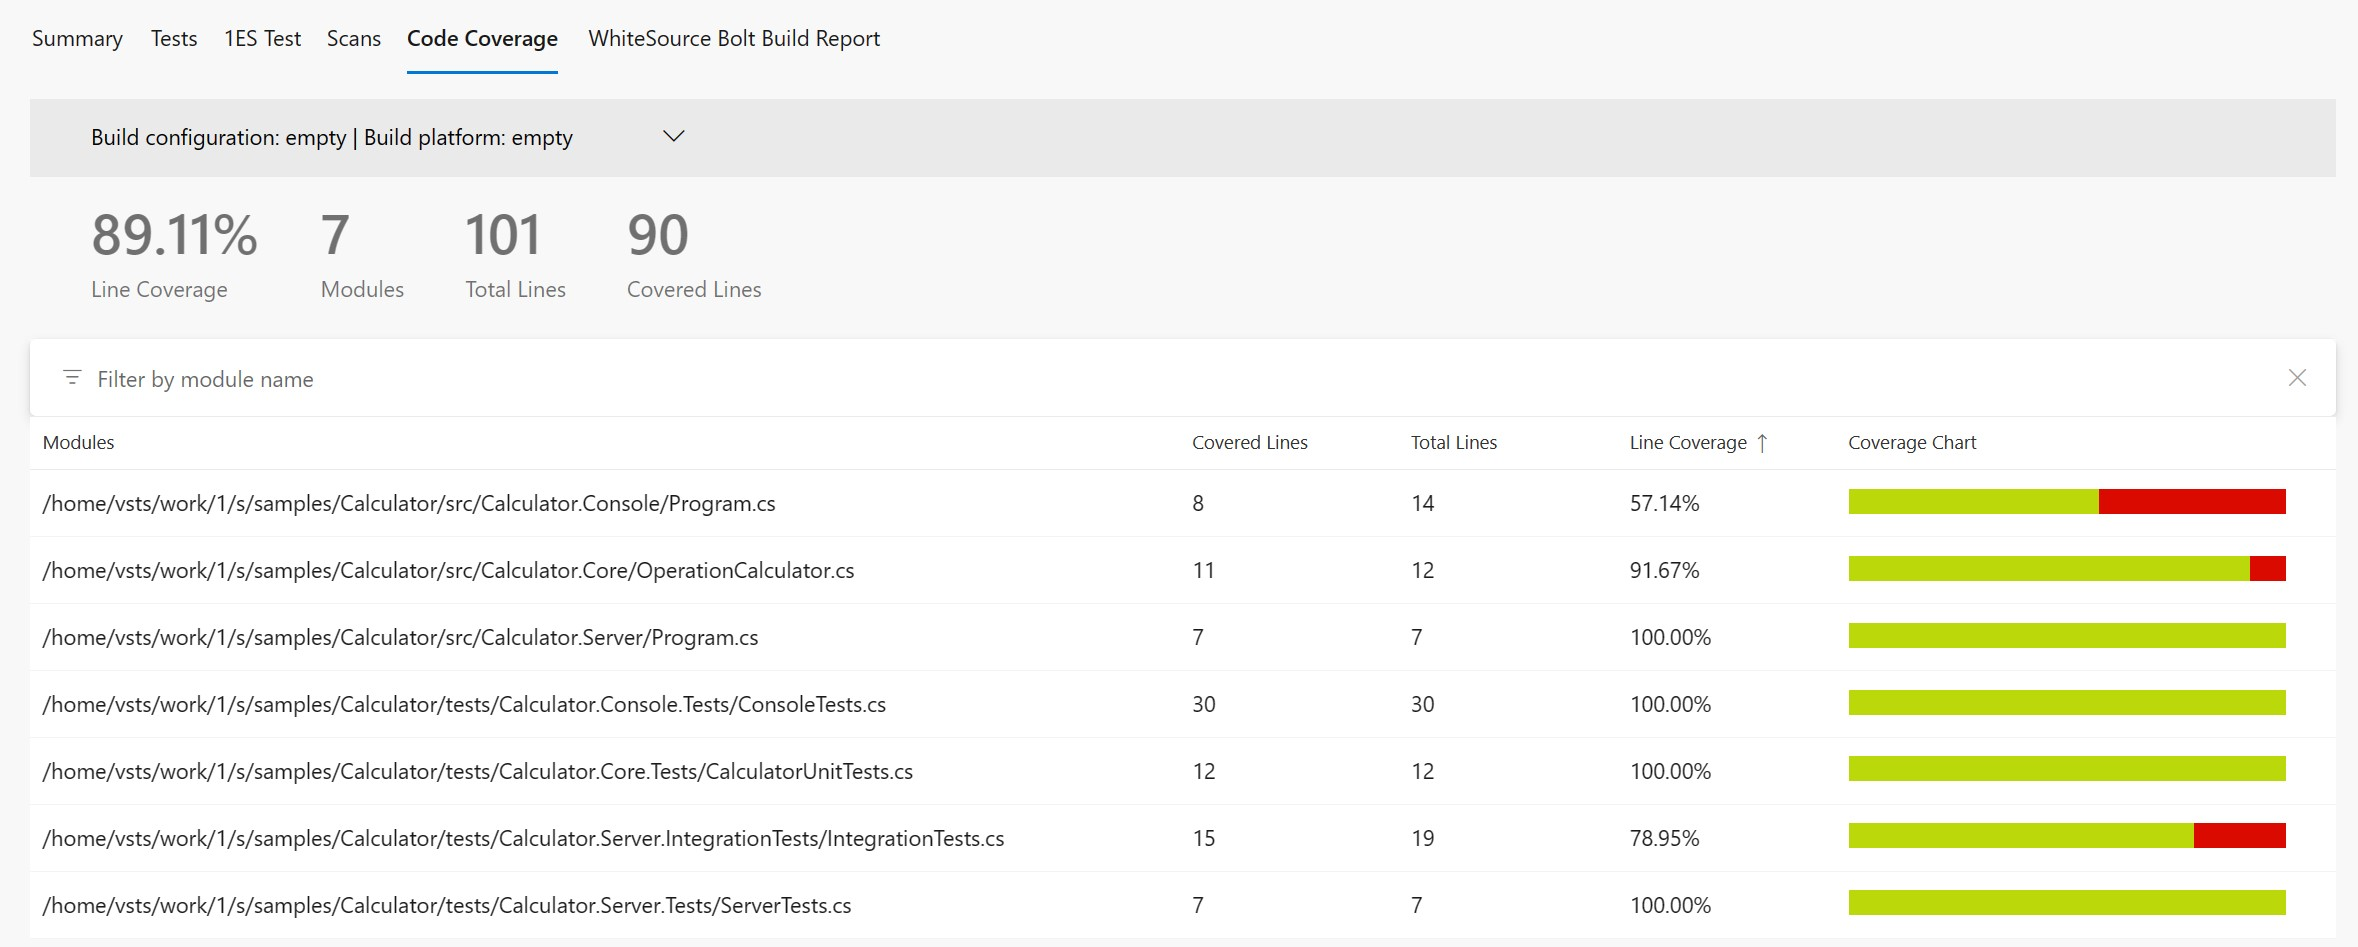
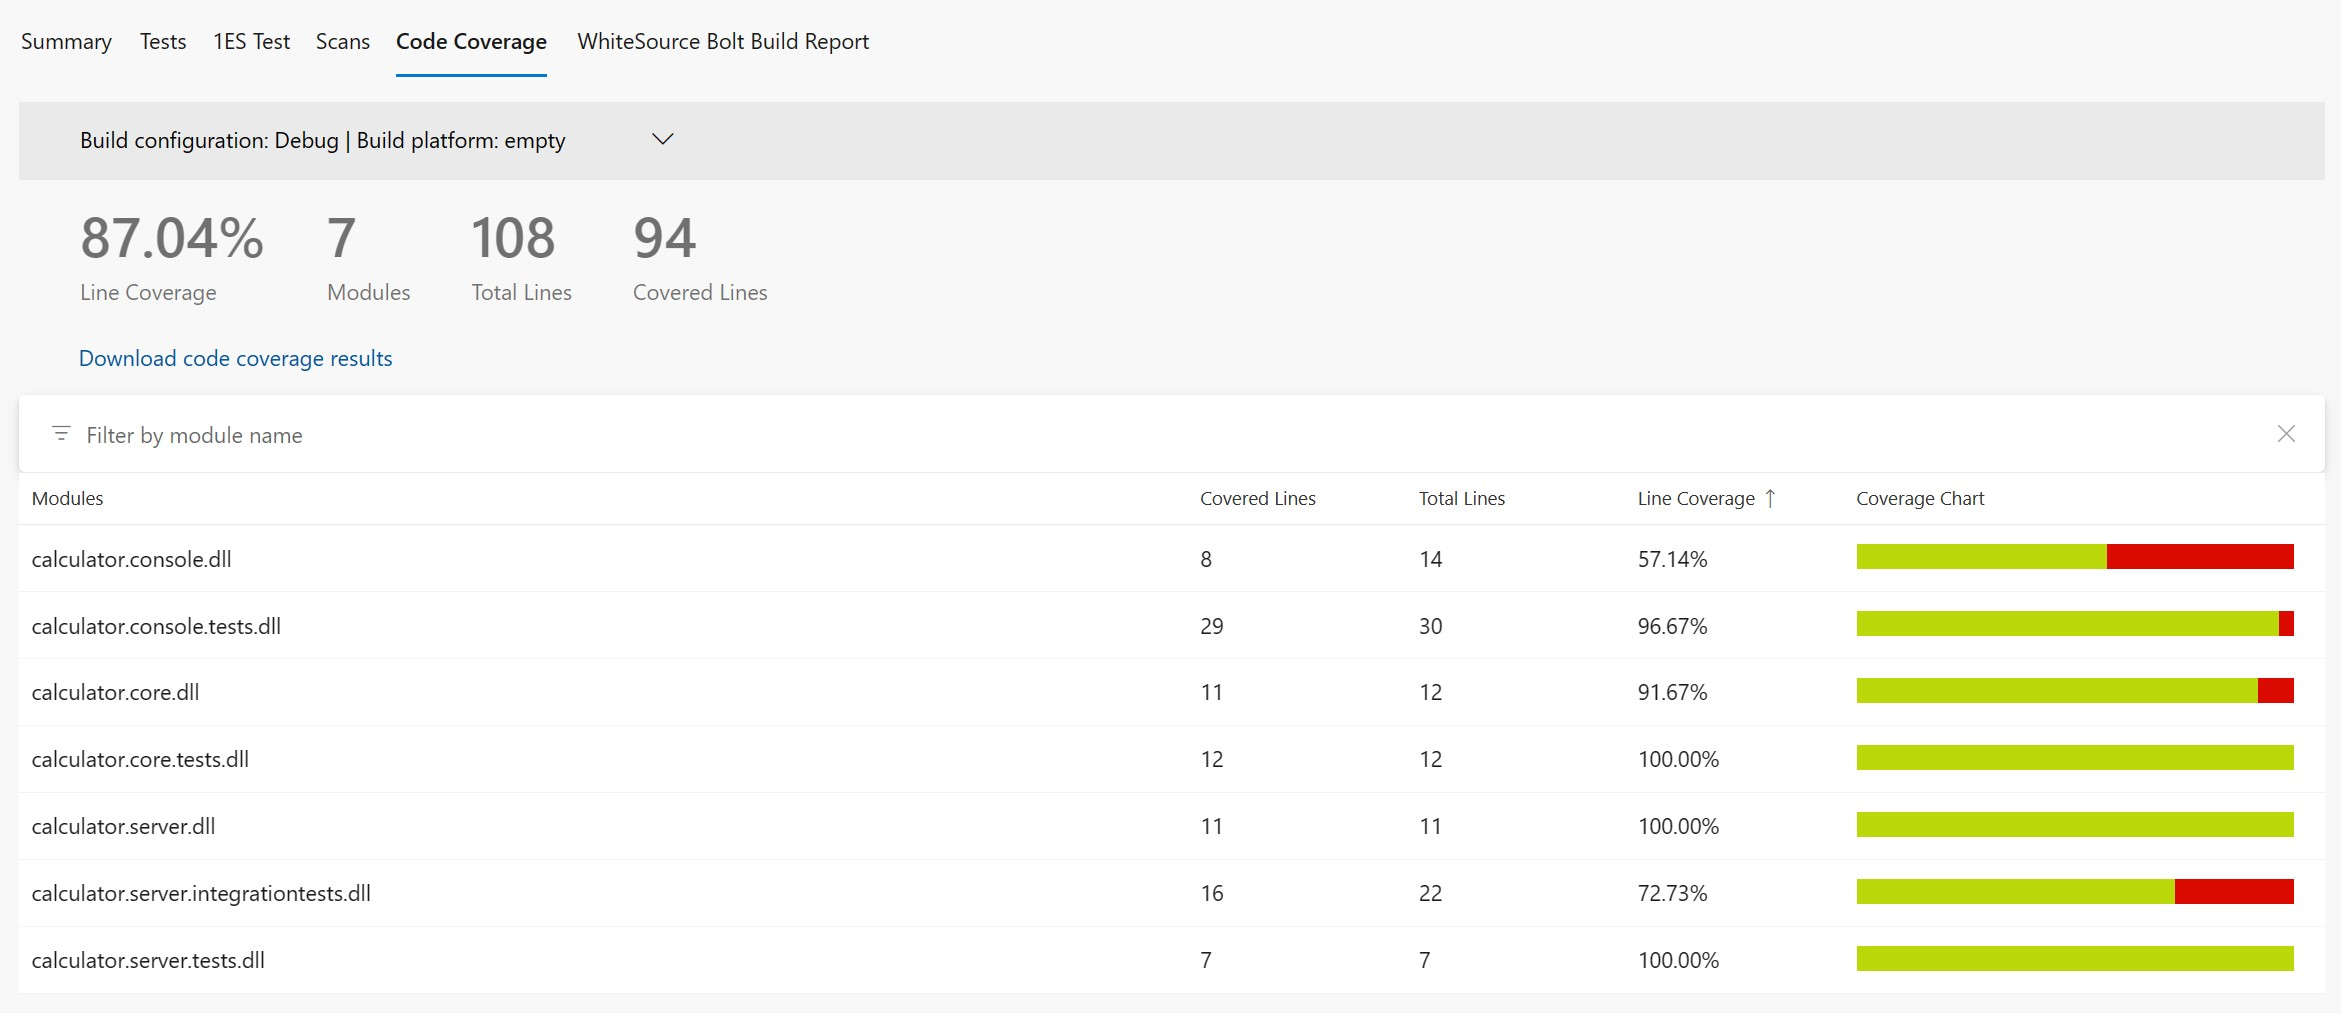
scenario 24

diff --git a/samples/Calculator/scenarios/scenario24/README.md b/samples/Calculator/scenarios/scenario24/README.md
@@ -1,6 +1,6 @@
 # Scenario Description
 
-Collect code coverage for whole solution. You can find here example how to collect coverage for all unit tests. All coverage reports, from all test projects are automatically merged.
+Collect code coverage for whole solution. You can find here example how to collect coverage for all unit tests. All coverage reports, from all test projects are automatically merged. To simplify integration tests are skipped because server is not started.
 
 # Collect code coverage using command line
 
